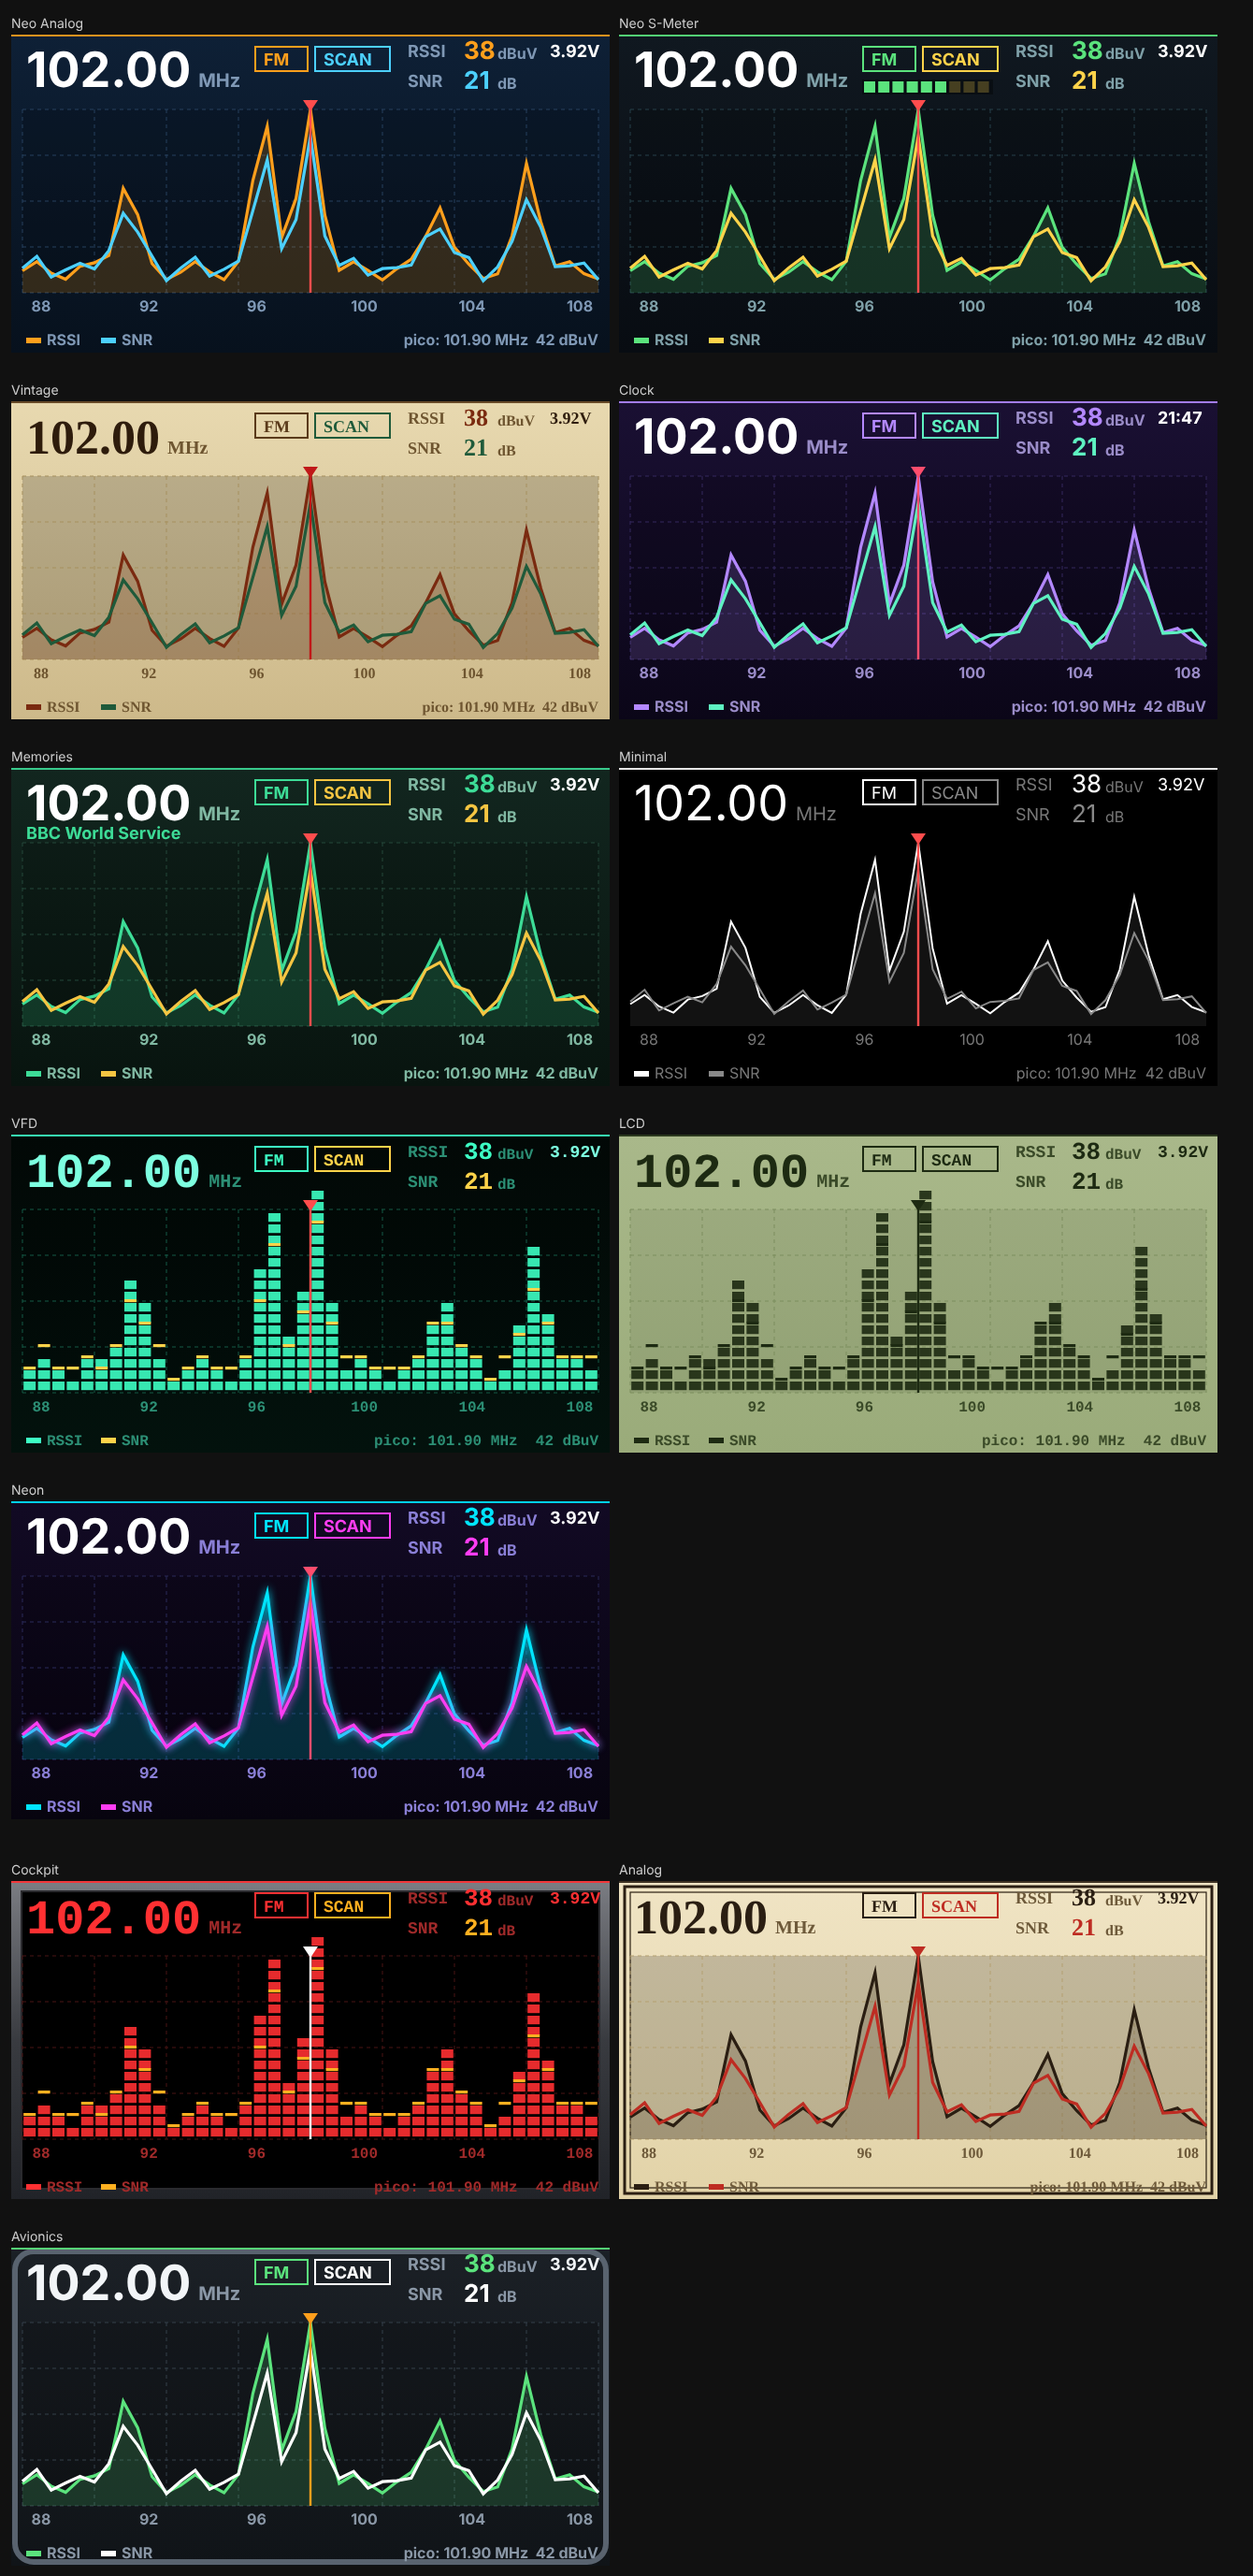
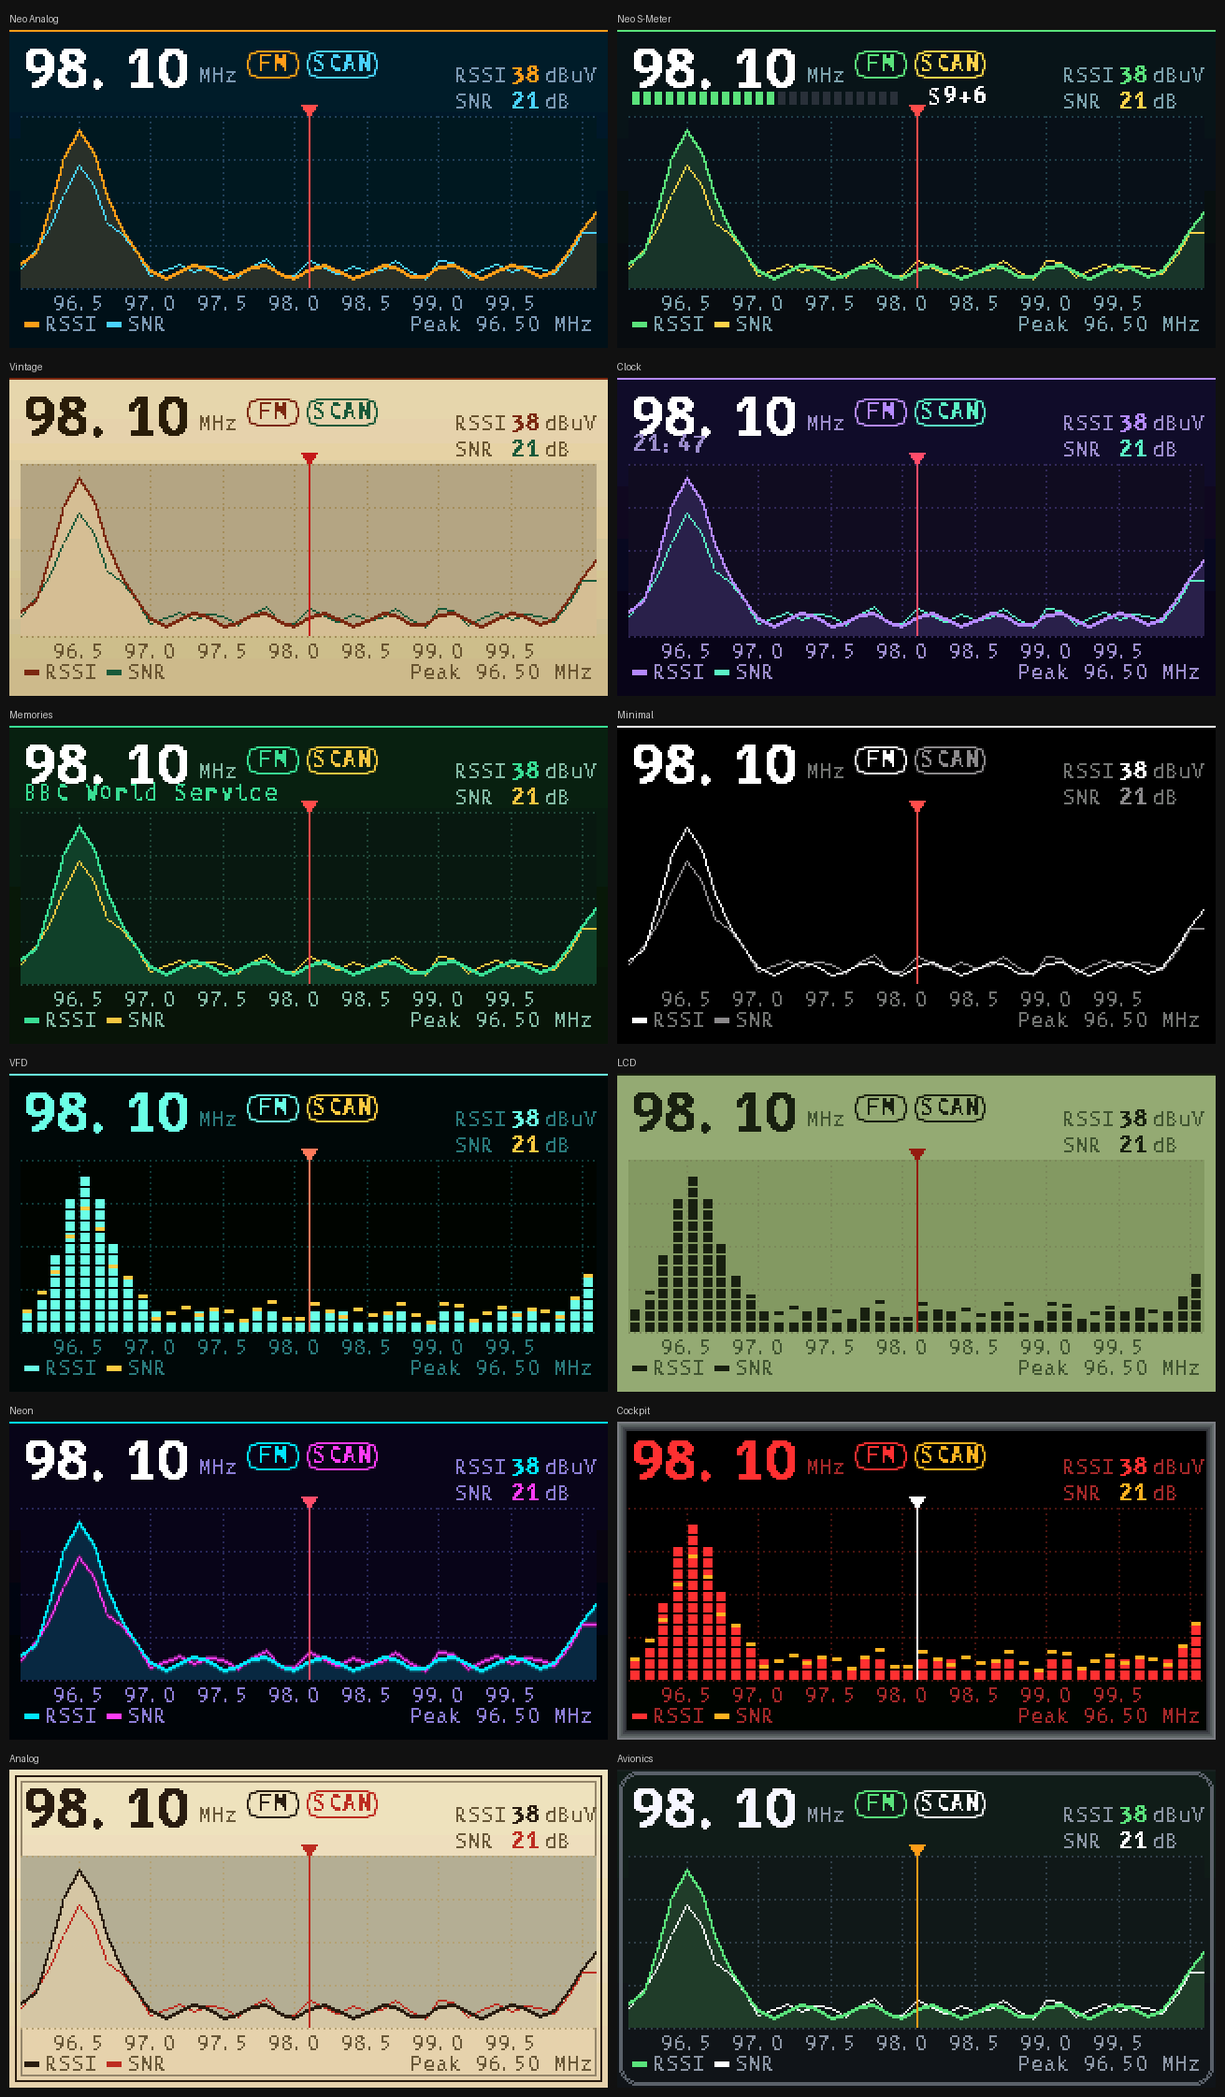
r30B release: real PC renders of the Scan screens
Claude-Session: https://claude.ai/code/session_01GxCpu9nVZgbrv7fE3jFeCn

diff --git a/docs/pv2ksm/RELEASE-r30B.md b/docs/pv2ksm/RELEASE-r30B.md
@@ -60,7 +60,7 @@ The names and titles in the Carousel and Grid menus now follow **Settings → La
 *Config → UI*: new selectors **Accent color, Text color, Background, Menu color, Menu style** (the layout list shows the new layouts).
 
 ### What changed since r30A
-- **Scan screen for every layout, each with its own model.** Drawing the Scan graph on top of each main UI layout is complex (it overlapped icons, names and meters), and the layouts are very different from each other, so **every UI layout now has its own Scan screen** instead of one generic graph. While scanning, the screen shows a large graph with the frequency, **RSSI**, **SNR**, the scale and the strongest peak. Each layout has its own look (background and colours): Neo Analog, Neo S-Meter, Vintage, Clock, Memories (station name), Minimal, VFD and LCD (segment bars), Neon, plus **Cockpit, Analog and Avionics**. The original *Default* and *S-Meter* layouts keep the classic Scan graph. *(Design sketches below; the colours on the radio may differ slightly.)*
+- **Scan screen for every layout, each with its own model.** Drawing the Scan graph on top of each main UI layout is complex (it overlapped icons, names and meters), and the layouts are very different from each other, so **every UI layout now has its own Scan screen** instead of one generic graph. While scanning, the screen shows a large graph with the frequency, **RSSI**, **SNR**, the scale and the strongest peak. Each layout has its own look (background and colours): Neo Analog, Neo S-Meter, Vintage, Clock, Memories (station name), Minimal, VFD and LCD (segment bars), Neon, plus **Cockpit, Analog and Avionics**. The original *Default* and *S-Meter* layouts keep the classic Scan graph. *(PC renders below; the colours on the radio may differ slightly.)*
 - **Frequency digit cursor** (underline on the selected digit) in all the new layouts, and **MUTED / SQ** badges that no longer overlap other items.
 - **Station names** no longer overlap (long names scroll).
 - **Status messages** (e.g. "Loading EiBi Schedule") now sit on a box with a background in every layout.
@@ -99,7 +99,7 @@ No CPU-speed option (the radio stays at 80 MHz). Japanese/Chinese are not includ
 
 ![weather](https://raw.githubusercontent.com/PV2KSM/ats-mini-pv2ksm/pv2ksm-r30A/docs/pv2ksm/screenshots/r30A-weather.png)
 
-**Scan screens: one model per layout (design sketches made on a PC, not photos)** — first image: Neo Analog, Neo S-Meter, Vintage, Clock, Memories, Minimal, VFD, LCD, Neon; second part: Cockpit, Analog, Avionics
+**Scan screens: one model per layout (renders made on a PC with the same drawing code as the firmware, with sample data; not photos of the radio)** — Neo Analog, Neo S-Meter, Vintage, Clock, Memories, Minimal, VFD, LCD, Neon, Cockpit, Analog, Avionics. The original *Default* and *S-Meter* layouts keep the classic Scan graph.
 
 ![scan](https://raw.githubusercontent.com/PV2KSM/ats-mini-pv2ksm/pv2ksm-r30B/docs/pv2ksm/screenshots/r30B-scan.png)
 
